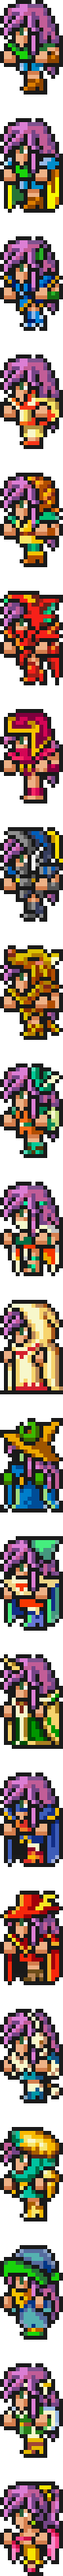
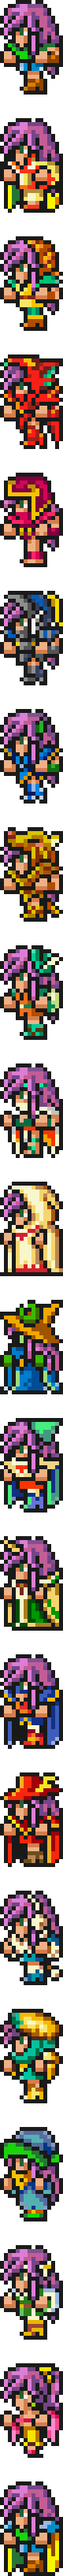
updated faris and krile sprite position

diff --git a/FFV-jobRandom/WhatCharacters.cs b/FFV-jobRandom/WhatCharacters.cs
@@ -72,6 +72,9 @@ namespace FFV_jobRandom
                     case "100":
                         CurrentCharacters[i] = FFV_jobRandom.Properties.Resources.krile;
                         break;
+                    default:
+                        CurrentCharacters[i] = null;
+                        break;
                 }
             }
             return CurrentCharacters;
@@ -149,6 +152,8 @@ namespace FFV_jobRandom
                         break;
                     case 20:
                         JobSprites[i] = 150*21;
+                        break;
+                    default:
                         break;
                 }
             }
